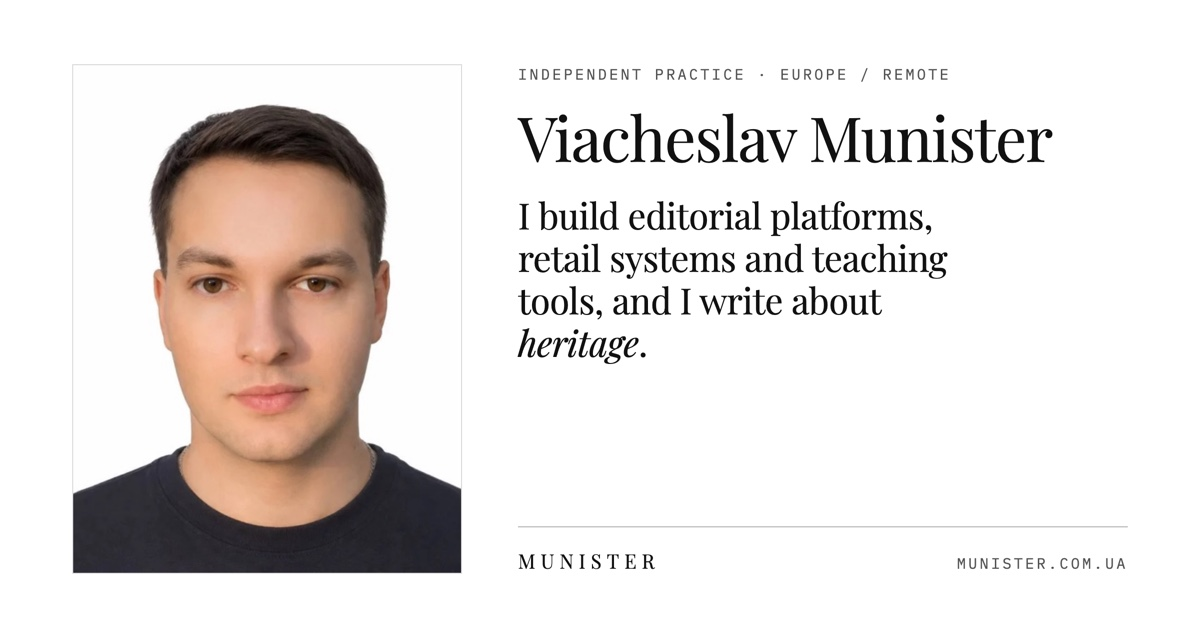
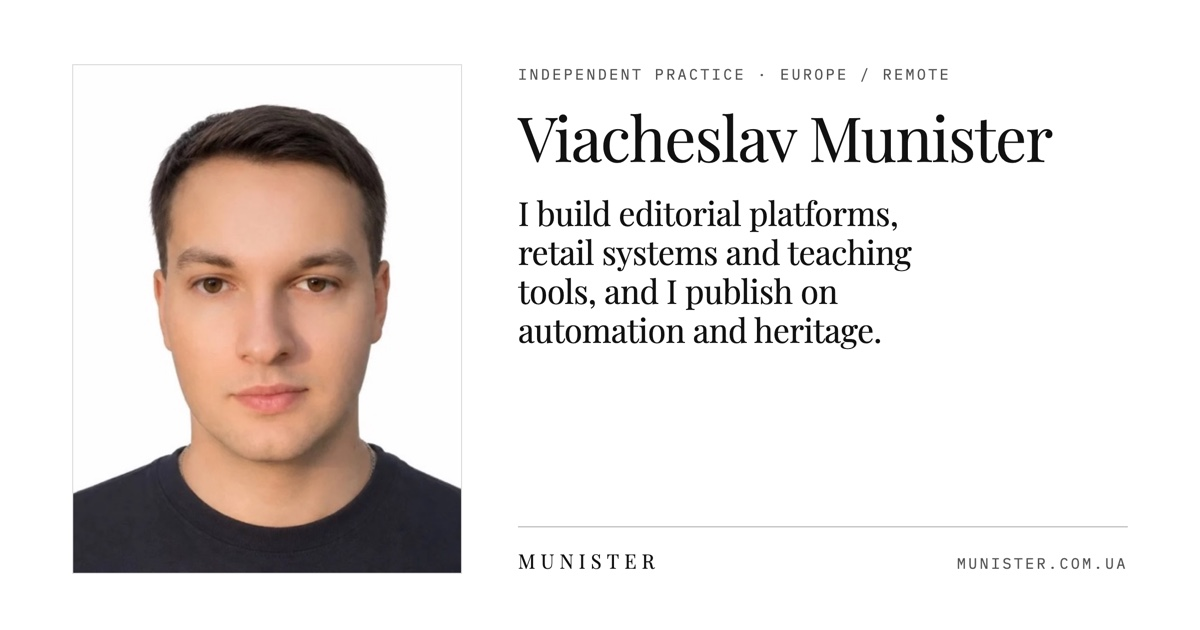
Drop italics site-wide
The claim no longer switches face mid-sentence, and the archive quote is
roman too. Italic faces are removed from the Google Fonts request on
every page since nothing uses them now, and the social cards were
re-rendered to match. Stylesheet at v=4.

Changed region(s): [[0.4317, 0.3016, 0.8017, 0.573]]

diff --git a/ua/index.html b/ua/index.html
@@ -132,10 +132,10 @@
 
 <link rel="preconnect" href="https://fonts.googleapis.com">
 <link rel="preconnect" href="https://fonts.gstatic.com" crossorigin>
-<link href="https://fonts.googleapis.com/css2?family=Playfair+Display:ital,wght@0,400;0,500;0,600;1,400&family=Crimson+Text:ital,wght@0,400;0,600;1,400&family=IBM+Plex+Mono:wght@400;500&display=swap" rel="stylesheet" media="print" onload="this.media='all'">
-<noscript><link href="https://fonts.googleapis.com/css2?family=Playfair+Display:ital,wght@0,400;0,500;0,600;1,400&family=Crimson+Text:ital,wght@0,400;0,600;1,400&family=IBM+Plex+Mono:wght@400;500&display=swap" rel="stylesheet"></noscript>
+<link href="https://fonts.googleapis.com/css2?family=Playfair+Display:wght@400;500;600&family=Crimson+Text:wght@400;600&family=IBM+Plex+Mono:wght@400;500&display=swap" rel="stylesheet" media="print" onload="this.media='all'">
+<noscript><link href="https://fonts.googleapis.com/css2?family=Playfair+Display:wght@400;500;600&family=Crimson+Text:wght@400;600&family=IBM+Plex+Mono:wght@400;500&display=swap" rel="stylesheet"></noscript>
 
-<link rel="stylesheet" href="/munister.css?v=3">
+<link rel="stylesheet" href="/munister.css?v=4">
 </head>
 <body>
 
@@ -169,7 +169,7 @@
       </div>
     </div>
 
-    <p class="claim">Будую редакційні платформи, торгові системи та інструменти для навчання, і публікуюся про <em>автоматизацію</em> та <em>спадщину</em>.</p>
+    <p class="claim">Будую редакційні платформи, торгові системи та інструменти для навчання, і публікуюся про автоматизацію та спадщину.</p>
     <p class="support">Небагато проєктів, і кожен я веду від початку до кінця: сам продукт, редакційна система навколо нього, а також дослідження й тексти, що з них виростають.</p>
 
     <div class="facts">

diff --git a/index.html b/index.html
@@ -132,10 +132,10 @@
 
 <link rel="preconnect" href="https://fonts.googleapis.com">
 <link rel="preconnect" href="https://fonts.gstatic.com" crossorigin>
-<link href="https://fonts.googleapis.com/css2?family=Playfair+Display:ital,wght@0,400;0,500;0,600;1,400&family=Crimson+Text:ital,wght@0,400;0,600;1,400&family=IBM+Plex+Mono:wght@400;500&display=swap" rel="stylesheet" media="print" onload="this.media='all'">
-<noscript><link href="https://fonts.googleapis.com/css2?family=Playfair+Display:ital,wght@0,400;0,500;0,600;1,400&family=Crimson+Text:ital,wght@0,400;0,600;1,400&family=IBM+Plex+Mono:wght@400;500&display=swap" rel="stylesheet"></noscript>
+<link href="https://fonts.googleapis.com/css2?family=Playfair+Display:wght@400;500;600&family=Crimson+Text:wght@400;600&family=IBM+Plex+Mono:wght@400;500&display=swap" rel="stylesheet" media="print" onload="this.media='all'">
+<noscript><link href="https://fonts.googleapis.com/css2?family=Playfair+Display:wght@400;500;600&family=Crimson+Text:wght@400;600&family=IBM+Plex+Mono:wght@400;500&display=swap" rel="stylesheet"></noscript>
 
-<link rel="stylesheet" href="/munister.css?v=3">
+<link rel="stylesheet" href="/munister.css?v=4">
 </head>
 <body>
 
@@ -170,7 +170,7 @@
       </div>
     </div>
 
-    <p class="claim">I build editorial platforms, retail systems and teaching tools, and I publish on <em>automation</em> and <em>heritage</em>.</p>
+    <p class="claim">I build editorial platforms, retail systems and teaching tools, and I publish on automation and heritage.</p>
     <p class="support">A small number of things, each run end to end: the software, the editorial system around it, and the research and writing that come out of both.</p>
 
     <div class="facts">

diff --git a/munister.css b/munister.css
@@ -75,7 +75,6 @@ p{text-wrap:pretty}
   margin-top:clamp(22px,3vw,30px);font-family:var(--font-display);
   font-size:clamp(30px,4.2vw,54px);line-height:1.08;letter-spacing:-.02em;max-width:24ch;
 }
-.claim em{font-style:italic}
 .support{margin-top:20px;max-width:56ch;color:var(--c-muted)}
 .facts{margin-top:28px;border-top:1px solid var(--c-rule);display:grid;grid-template-columns:repeat(4,1fr);gap:0}
 .facts div{padding:14px 18px 0 0;border-right:1px solid var(--c-rule)}
@@ -132,7 +131,7 @@ p{text-wrap:pretty}
 .practice li{display:flex;gap:14px;align-items:baseline;padding:12px 0;border-bottom:1px solid var(--c-rule);font-size:20px}
 .practice li i{font-family:var(--font-mono);font-size:10px;letter-spacing:.13em;color:var(--c-gold);font-style:normal}
 .practice > div > p{margin-top:16px;color:var(--c-muted);font-size:16.5px}
-.practice p.pull,.pull{font-family:var(--font-display);font-style:italic;font-size:clamp(22px,2.5vw,29px);line-height:1.28;margin-top:14px}
+.practice p.pull,.pull{font-family:var(--font-display);font-size:clamp(22px,2.5vw,29px);line-height:1.28;margin-top:14px}
 .pull-mark{width:34px;height:1px;background:var(--c-gold);margin-top:16px}
 .pull-mark + small{display:block;margin-top:14px}
 

diff --git a/cv.html b/cv.html
@@ -26,8 +26,8 @@
 
 <link rel="preconnect" href="https://fonts.googleapis.com">
 <link rel="preconnect" href="https://fonts.gstatic.com" crossorigin>
-<link href="https://fonts.googleapis.com/css2?family=Playfair+Display:ital,wght@0,400;0,500;0,600&family=Crimson+Text:ital,wght@0,400;0,600&family=IBM+Plex+Mono:wght@400;500&display=swap" rel="stylesheet" media="print" onload="this.media='all'">
-<noscript><link href="https://fonts.googleapis.com/css2?family=Playfair+Display:ital,wght@0,400;0,500;0,600&family=Crimson+Text:ital,wght@0,400;0,600&family=IBM+Plex+Mono:wght@400;500&display=swap" rel="stylesheet"></noscript>
+<link href="https://fonts.googleapis.com/css2?family=Playfair+Display:wght@400;500;600&family=Crimson+Text:wght@400;600&family=IBM+Plex+Mono:wght@400;500&display=swap" rel="stylesheet" media="print" onload="this.media='all'">
+<noscript><link href="https://fonts.googleapis.com/css2?family=Playfair+Display:wght@400;500;600&family=Crimson+Text:wght@400;600&family=IBM+Plex+Mono:wght@400;500&display=swap" rel="stylesheet"></noscript>
 <style>
 :root{
   --c-bg:#ffffff;

diff --git a/404.html b/404.html
@@ -34,8 +34,8 @@
 
 <link rel="preconnect" href="https://fonts.googleapis.com">
 <link rel="preconnect" href="https://fonts.gstatic.com" crossorigin>
-<link href="https://fonts.googleapis.com/css2?family=Playfair+Display:ital,wght@0,400;0,500;1,400&family=Crimson+Text:ital,wght@0,400;0,600&family=IBM+Plex+Mono:wght@400;500&display=swap" rel="stylesheet">
-<link rel="stylesheet" href="/munister.css?v=3">
+<link href="https://fonts.googleapis.com/css2?family=Playfair+Display:wght@400;500&family=Crimson+Text:wght@400;600&family=IBM+Plex+Mono:wght@400;500&display=swap" rel="stylesheet">
+<link rel="stylesheet" href="/munister.css?v=4">
 <style>
   .lost{display:grid;grid-template-columns:minmax(0,1fr) minmax(0,1fr);gap:clamp(24px,4vw,64px);
     align-items:start;padding-top:clamp(1.6rem,3vw,2.6rem)}

diff --git a/research/index.html b/research/index.html
@@ -30,8 +30,8 @@
 
 <link rel="preconnect" href="https://fonts.googleapis.com">
 <link rel="preconnect" href="https://fonts.gstatic.com" crossorigin>
-<link href="https://fonts.googleapis.com/css2?family=Playfair+Display:ital,wght@0,400;0,500;0,600;1,400&family=Crimson+Text:ital,wght@0,400;0,600;1,400&family=IBM+Plex+Mono:wght@400;500&display=swap" rel="stylesheet">
-<link rel="stylesheet" href="/munister.css?v=3">
+<link href="https://fonts.googleapis.com/css2?family=Playfair+Display:wght@400;500;600&family=Crimson+Text:wght@400;600&family=IBM+Plex+Mono:wght@400;500&display=swap" rel="stylesheet">
+<link rel="stylesheet" href="/munister.css?v=4">
 
 <script type="application/ld+json">
 {

diff --git a/writing/index.html b/writing/index.html
@@ -30,8 +30,8 @@
 
 <link rel="preconnect" href="https://fonts.googleapis.com">
 <link rel="preconnect" href="https://fonts.gstatic.com" crossorigin>
-<link href="https://fonts.googleapis.com/css2?family=Playfair+Display:ital,wght@0,400;0,500;0,600;1,400&family=Crimson+Text:ital,wght@0,400;0,600;1,400&family=IBM+Plex+Mono:wght@400;500&display=swap" rel="stylesheet">
-<link rel="stylesheet" href="/munister.css?v=3">
+<link href="https://fonts.googleapis.com/css2?family=Playfair+Display:wght@400;500;600&family=Crimson+Text:wght@400;600&family=IBM+Plex+Mono:wght@400;500&display=swap" rel="stylesheet">
+<link rel="stylesheet" href="/munister.css?v=4">
 
 <script type="application/ld+json">
 {
